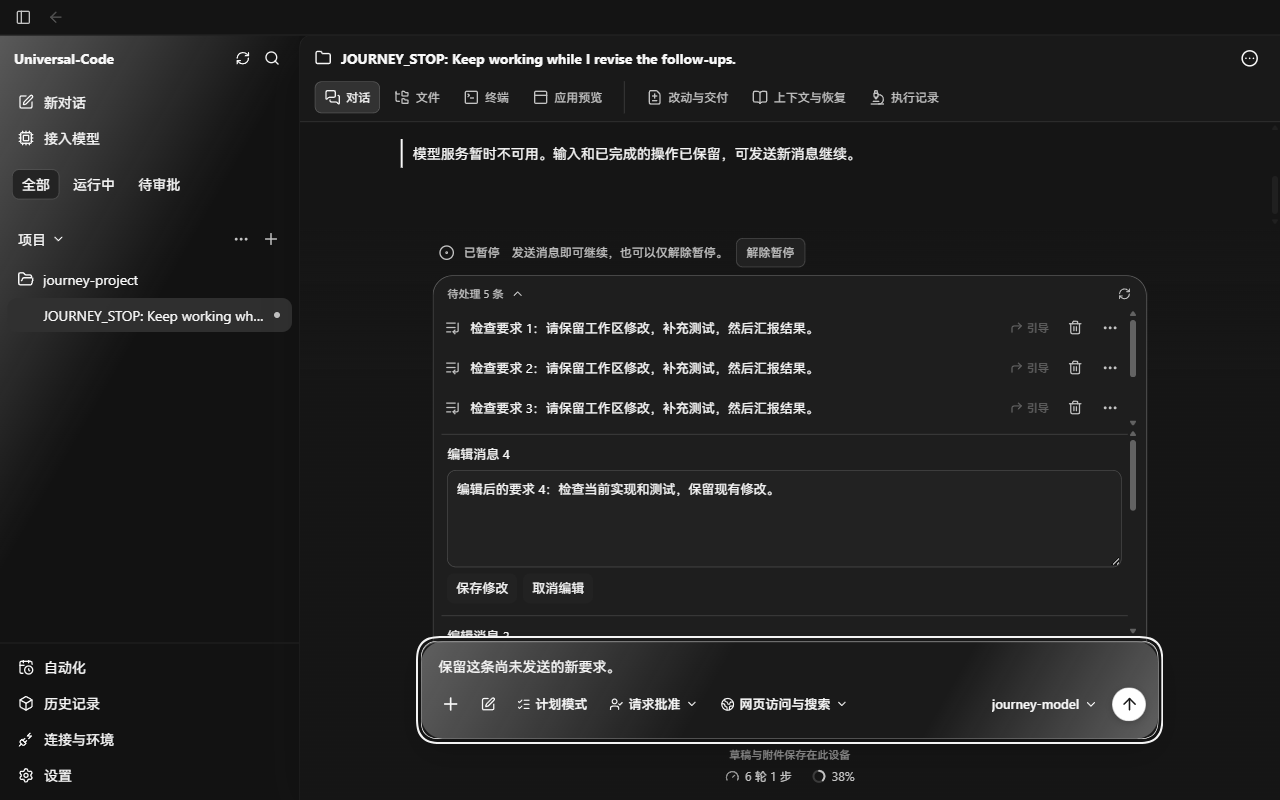
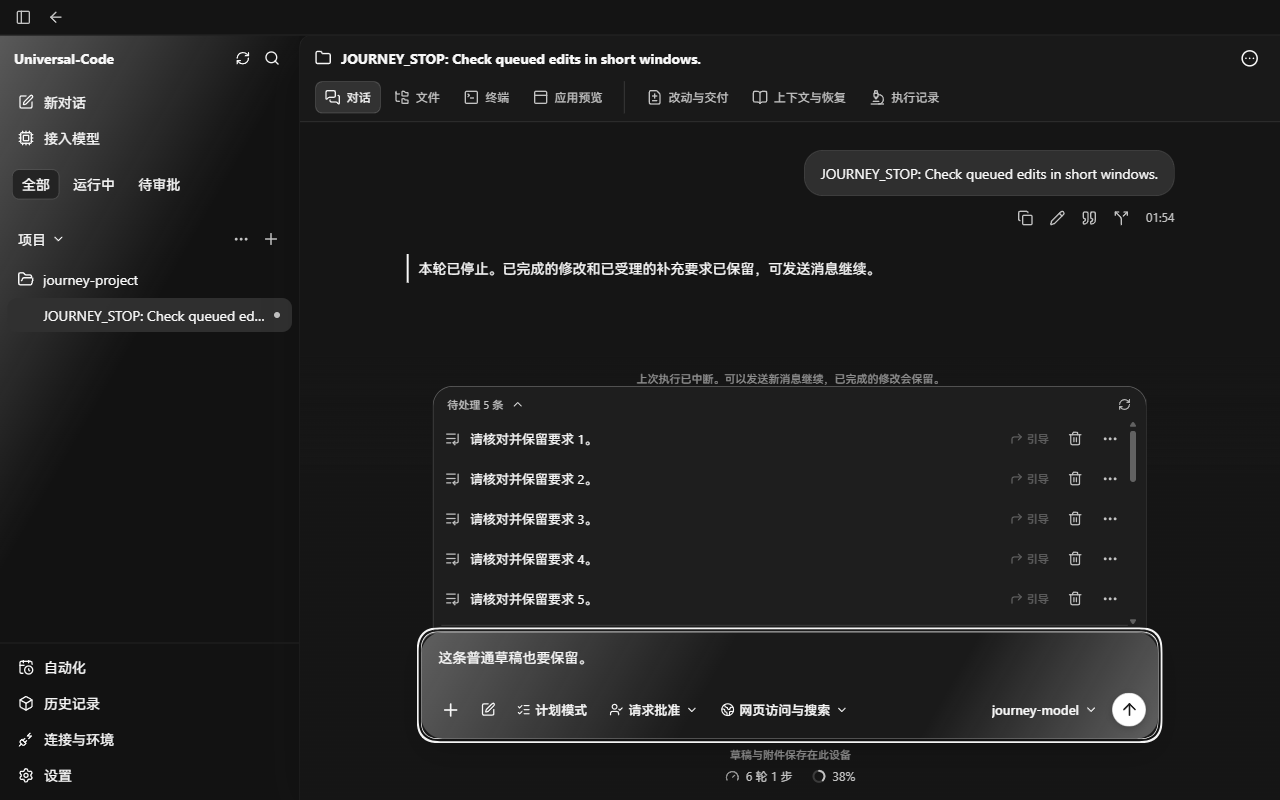
fix(chat): share queue scrolling in short windows

diff --git a/web/src/v2/components/queued-messages.tsx b/web/src/v2/components/queued-messages.tsx
@@ -50,6 +50,7 @@ function QueuePanel({ client, running, canPromote = false, ...binding }: QueueBi
   const setNotice = (text: string, successful = false) => setNoticeState({ text, successful });
   const [busy, setBusy] = useState<string[]>([]);
   const [collapsed, setCollapsed] = useState(false);
+  const [focusedEdit, setFocusedEdit] = useState<string | null>(null);
   const [details, setDetails] = useState<{ message: QueuedMessage; trigger: HTMLElement | null } | null>(null);
   const detailsID = useId();
   const listID = useId();
@@ -86,7 +87,7 @@ function QueuePanel({ client, running, canPromote = false, ...binding }: QueueBi
       const state = document.read(scope);
       if (!state.ref || !queueEditVisible(store, edit, state)) document.update(scope, empty(message.content), state.ref);
       reopenQueueEdit(store, edit);
-      refresh(); setNotice("");
+      refresh(); setFocusedEdit(key); setNotice("");
     } catch (error) { setNotice(explanation(error, t)); }
   };
   const finish = async (operation: QueueOperation) => {
@@ -210,6 +211,7 @@ function QueuePanel({ client, running, canPromote = false, ...binding }: QueueBi
       <button className="v2-queue-icon" type="button" aria-label={t("刷新列表", "Refresh list")} title={t("刷新列表", "Refresh list")}
         onClick={() => void query.refetch()} disabled={query.isFetching}><RefreshCw size={13} aria-hidden="true" /></button>
     </header>
+    <div className="v2-queue-content">
     {query.isError && <p role="alert">{t("暂时无法读取完整队列。已有消息仍可在对话记录中查看。", "The full queue is unavailable. Existing messages remain in conversation history.")}{explanation(query.error, t)}</p>}
     {recoveryError && <p role="alert">{recoveryError}</p>}
     {notice && <p role="status">{notice}</p>}
@@ -226,8 +228,8 @@ function QueuePanel({ client, running, canPromote = false, ...binding }: QueueBi
           version: "queue_operation.v1", kind: "cancel", operationKey: crypto.randomUUID(), messageID: message.id,
           expectedRevision: message.revision, oldSHA256: message.content_sha256, content: "" })} />)}</ol>
     {/* Recovery controls stay reachable even when the queue preview is collapsed. */}
-    <div className="v2-queue-recovery">
     {document && store && edits.map((edit) => <QueueEditor key={queueEditKey(edit)} edit={edit} document={document} store={store}
+      focus={focusedEdit === queueEditKey(edit)}
       client={client} current={edit.runID === binding.runID && edit.sessionID === binding.sessionID ? items.find((message) => message.id === edit.message.id) : undefined} refresh={refresh}
       previousRun={edit.runID !== binding.runID || edit.sessionID !== binding.sessionID}
       queueKnown={query.isSuccess} locked={!!recoveryError || !query.isSuccess || operations.some((operation) => operation.messageID === edit.message.id) || busy.includes(edit.message.id)}
@@ -245,8 +247,9 @@ function QueuePanel({ client, running, canPromote = false, ...binding }: QueueBi
   </section>;
 }
 
-function QueueEditor({ edit, current, client, document, store, locked, queueKnown, previousRun, refresh, submit, startEdit }: {
+function QueueEditor({ edit, current, client, document, store, locked, queueKnown, previousRun, refresh, submit, startEdit, focus }: {
   edit: QueueEdit; current?: QueuedMessage; client: APIClient; document: DraftDocument; store: V2RecoveryStore;
+  focus: boolean;
   locked: boolean; queueKnown: boolean; previousRun: boolean; refresh: () => void; submit: (operation: QueueOperation) => void; startEdit: (message: QueuedMessage) => void;
 }) {
   const { t } = useLocale();
@@ -269,7 +272,7 @@ function QueueEditor({ edit, current, client, document, store, locked, queueKnow
   };
   return <div className="v2-queue-editor">
     {previousRun && <p>{t("上轮编辑稿 · 原执行", "Previous edit · Original run ")}{edit.runID}</p>}
-    <label>{t(`编辑消息 ${edit.message.sequence}`, `Edit message ${edit.message.sequence}`)}<textarea aria-label={t(`编辑消息 ${edit.message.sequence}`, `Edit message ${edit.message.sequence}`)} value={state.snapshot.text} rows={4}
+    <label>{t(`编辑消息 ${edit.message.sequence}`, `Edit message ${edit.message.sequence}`)}<textarea aria-label={t(`编辑消息 ${edit.message.sequence}`, `Edit message ${edit.message.sequence}`)} value={state.snapshot.text} rows={4} autoFocus={focus}
       onChange={(event) => { document.update(scope, { text: event.target.value }, state.ref); refresh(); }} /></label>
     <V2DraftConflict state={state} client={client} workspaceID={edit.workspaceID} onResolve={(token, ref) => { document.resolve(scope, token, ref); refresh(); }} />
     {(!queueKnown || !current || current.prepared || stale) && <p role="status">{!queueKnown ? t("尚未确认最新队列状态。", "The latest queue state is unconfirmed.") : !current ? t("这条消息已离开待处理队列。", "This message left the pending queue.") : current.prepared ? t("这条消息正在处理。", "This message is being processed.") : t("这条消息已在其他窗口更新。", "This message was updated in another window.")}{t("本地编辑稿仍保留，可选中文字复制。", "Your local edit is kept. Select text to copy it.")}</p>}

diff --git a/web/src/v2/components/queued-messages.css b/web/src/v2/components/queued-messages.css
@@ -32,9 +32,11 @@
 .v2-queue-toggle svg { flex-shrink: 0; }
 .v2-queued-messages .v2-queue-icon { display: inline-flex; align-items: center; justify-content: center; width: 28px; height: 28px; flex: 0 0 28px; padding: 0; color: var(--v2-muted); }
 .v2-queued-messages .v2-queue-promote { display: inline-flex; align-items: center; justify-content: center; gap: 3px; height: 28px; flex: 0 0 auto; padding: 0 5px; color: var(--v2-muted); font-size: 11px; white-space: nowrap; }
-.v2-queued-messages > ol { list-style: none; padding: 0; margin: 0; max-height: min(120px, 24dvh); overflow: auto; overscroll-behavior: contain; scrollbar-width: thin; scrollbar-color: var(--v2-border-strong) transparent; }
-.v2-queued-messages > ol[hidden] { display: none; }
-.v2-queued-messages > ol > li { min-width: 0; padding: 0; }
+.v2-queue-content { max-height: min(120px, 24dvh); overflow-y: auto; overscroll-behavior-y: contain; scrollbar-width: thin; scrollbar-color: var(--v2-border-strong) transparent; }
+.v2-queue-content:has(.v2-queue-editor, .v2-queued-message-pending) { max-height: min(220px, 26dvh); }
+.v2-queue-content > ol { list-style: none; padding: 0; margin: 0; }
+.v2-queue-content > ol[hidden] { display: none; }
+.v2-queue-content > ol > li { min-width: 0; padding: 0; }
 .v2-queue-row { display: flex; align-items: center; gap: 7px; min-height: 40px; padding: 3px 4px; }
 .v2-queue-row-icon { flex-shrink: 0; color: var(--v2-muted); }
 .v2-queued-messages .v2-queue-preview { display: flex; align-items: center; gap: 7px; flex: 1; min-width: 0; min-height: 32px; padding: 3px; text-align: left; }
@@ -67,7 +69,6 @@
 .v2-queue-menu { position: fixed; z-index: 100; width: 196px; max-width: calc(100vw - 16px); max-height: calc(100dvh - 16px); overflow-y: auto; overscroll-behavior: contain; padding: 6px; border: 1px solid var(--v2-border-strong); border-radius: 13px; background: var(--prayu-surface-solid); color: var(--v2-ink); font: 13px/1.5 var(--prayu-font-ui, system-ui); box-shadow: 0 8px 28px var(--prayu-glass-shadow); }
 .v2-queue-menu button { display: flex; align-items: center; gap: 9px; width: 100%; min-height: 34px; padding: 6px 9px; text-align: left; }
 .v2-queue-menu svg { flex-shrink: 0; }
-.v2-queue-recovery { max-height: min(220px, 26dvh); overflow-y: auto; overscroll-behavior-y: contain; scrollbar-width: thin; scrollbar-color: var(--v2-border-strong) transparent; }
 .v2-queue-editor, .v2-queued-message-pending { margin-top: 6px; padding: 10px 6px 6px; border-top: 1px solid var(--v2-border); overflow-wrap: anywhere; }
 .v2-queue-editor textarea { display: block; box-sizing: border-box; width: 100%; min-height: 88px; padding: 9px; margin: 6px 0; resize: vertical; font: inherit; color: var(--v2-ink); background: var(--v2-control); border: 1px solid var(--v2-border); border-radius: 9px; }
 .v2-queued-message-actions { display: flex; align-items: center; flex-wrap: wrap; gap: 6px; }

diff --git a/web/e2e/workbench.spec.ts b/web/e2e/workbench.spec.ts
@@ -141,6 +141,7 @@ test("queued message edits retain the composer and conversation after reload", a
   for (let sequence = 2; sequence <= 4; sequence++) {
     await page.getByRole("button", { name: `消息 ${sequence} 的更多操作`, exact: true }).click();
     await page.getByRole("menuitem", { name: "编辑消息", exact: true }).click();
+    await expect(page.getByRole("textbox", { name: `编辑消息 ${sequence}`, exact: true })).toBeFocused();
     await page.getByRole("textbox", { name: `编辑消息 ${sequence}`, exact: true }).fill(`Unsent edit ${sequence}`);
   }
   await composer.fill("Keep this ordinary draft too");
@@ -148,21 +149,26 @@ test("queued message edits retain the composer and conversation after reload", a
   await reconnect(page);
   await expect(composer).toHaveValue("Keep this ordinary draft too");
   await composer.focus();
-  for (const width of [1280, 390]) {
-    await page.setViewportSize({ width, height: 844 });
+  for (const { width, height } of [
+    { width: 1280, height: 844 }, { width: 390, height: 844 },
+    { width: 1280, height: 600 }, { width: 480, height: 600 }, { width: 390, height: 500 },
+  ]) {
+    await page.setViewportSize({ width, height });
     await expect(composer).toHaveValue("Keep this ordinary draft too");
     await withinViewport(composer, page);
     const send = page.getByRole("button", { name: "发送消息", exact: true });
     await withinViewport(send, page);
-    expect((await send.boundingBox())!.y + (await send.boundingBox())!.height).toBeLessThanOrEqual(844);
-    expect((await page.locator(".v2-conversation-scroll").boundingBox())!.height).toBeGreaterThan(80);
+    expect((await send.boundingBox())!.y + (await send.boundingBox())!.height).toBeLessThanOrEqual(height);
+    const composerBounds = (await page.locator(".v2-shared-composer").boundingBox())!;
+    expect(composerBounds.y + composerBounds.height).toBeLessThanOrEqual(height);
+    expect((await page.locator(".v2-conversation-scroll").boundingBox())!.height).toBeGreaterThan(height >= 600 ? 80 : 32);
     for (let sequence = 2; sequence <= 4; sequence++) {
       const edit = page.getByRole("textbox", { name: `编辑消息 ${sequence}`, exact: true });
       await expect(edit).toHaveValue(`Unsent edit ${sequence}`);
       await edit.focus();
       await expect(edit).toBeInViewport();
     }
-    await info.attach(`queued-edits-${width}`, { body: await page.screenshot(), contentType: "image/png" });
+    await info.attach(`queued-edits-${width}x${height}`, { body: await page.screenshot(), contentType: "image/png" });
   }
   await page.getByRole("button", { name: /^待处理 5 条/u }).click();
   const edit = page.getByRole("textbox", { name: "编辑消息 2", exact: true });

diff --git a/web/src/v2/components/queued-messages.test.tsx b/web/src/v2/components/queued-messages.test.tsx
@@ -4,7 +4,7 @@ import { LocaleProvider } from "../../lib/locale";
 import { Blob as NodeBlob } from "node:buffer";
 import { webcrypto } from "node:crypto";
 import { QueryClient, QueryClientProvider } from "@tanstack/react-query";
-import { act, cleanup, render as renderComponent, screen, waitFor, within } from "@testing-library/react";
+import { act, cleanup, fireEvent, render as renderComponent, screen, waitFor, within } from "@testing-library/react";
 import userEvent from "@testing-library/user-event";
 import { APIRequestError, type APIClient } from "../../api/client";
 import type { QueueBinding, QueuePromotion, QueuePromotionRejection, QueuedMessage } from "../../api/queued-messages";
@@ -314,6 +314,20 @@ it("supports keyboard menu dismissal and folds only the preview without cancelli
   expect(screen.getAllByRole("button", { name: "撤回" })).toHaveLength(2);
   expect(f.cancelSessionSteering).not.toHaveBeenCalled();
   expect(f.postControl).not.toHaveBeenCalled();
+});
+
+it("keeps a newly positioned menu through an older scroll event and closes it when its anchor moves", async () => {
+  const f = fixture(); mount(f.client); const user = userEvent.setup();
+  const trigger = await screen.findByRole("button", { name: "消息 1 的更多操作" });
+  const rect = { top: 100, left: 50, right: 78, bottom: 128, width: 28, height: 28, x: 50, y: 100, toJSON: () => ({}) };
+  const bounds = vi.spyOn(trigger, "getBoundingClientRect").mockReturnValue(rect);
+  await user.click(trigger);
+  fireEvent.scroll(screen.getByRole("list"));
+  expect(screen.getByRole("menuitem", { name: "编辑消息" })).toHaveFocus();
+  bounds.mockReturnValue({ ...rect, top: 90, bottom: 118, y: 90 });
+  fireEvent.scroll(screen.getByRole("list"));
+  expect(screen.queryByRole("menu")).not.toBeInTheDocument();
+  expect(trigger).toHaveFocus();
 });
 
 it("removes editing from an open menu when the message becomes prepared", async () => {

diff --git a/web/src/v2/components/queued-message-row.tsx b/web/src/v2/components/queued-message-row.tsx
@@ -107,11 +107,13 @@ function QueueMessageMenu({ trigger, message, editDisabled, onClose, onEdit, onD
   const { t } = useLocale();
   const ref = useRef<HTMLDivElement>(null);
   const [position, setPosition] = useState({ top: 0, left: 0 });
+  const positionedAnchor = useRef<{ top: number; left: number } | null>(null);
   const closeRef = useRef(onClose);
   closeRef.current = onClose;
   useLayoutEffect(() => {
     const anchor = trigger.current?.getBoundingClientRect(), menu = ref.current?.getBoundingClientRect();
     if (!anchor || !menu) return;
+    positionedAnchor.current = { top: anchor.top, left: anchor.left };
     setPosition({ left: Math.max(8, Math.min(anchor.right - menu.width, window.innerWidth - menu.width - 8)),
       top: Math.max(8, anchor.bottom + menu.height + 8 > window.innerHeight ? anchor.top - menu.height - 4 : anchor.bottom + 4) });
   }, [trigger, message.prepared]);
@@ -129,6 +131,10 @@ function QueueMessageMenu({ trigger, message, editDisabled, onClose, onEdit, onD
       }
     };
     const move = (event: Event) => {
+      const anchor = trigger.current?.getBoundingClientRect();
+      // Opening after native focus/scroll can deliver an older scroll event.
+      if (event.type === "scroll" && anchor?.top === positionedAnchor.current?.top &&
+        anchor?.left === positionedAnchor.current?.left) return;
       if (!ref.current?.contains(event.target as Node)) { trigger.current?.focus({ preventScroll: true }); closeRef.current(); }
     };
     window.addEventListener("click", outside);

diff --git a/docs/acceptance/2026-11-07-queued-message-editing.md b/docs/acceptance/2026-11-07-queued-message-editing.md
@@ -7,12 +7,14 @@ height limit. At 1280 × 800, the transcript shrank to zero height and the ordin
 composer started at y=871.8, below the viewport. Reloading restored the editors
 and the same obstruction.
 
-The editors and unconfirmed queue operations now share a scroll area bounded by
-220px or 26% of the viewport height. The existing message list, editor controls,
-collapsed-list recovery access and stored draft identities are preserved.
+The message list, editors and unconfirmed operations now share one scroll area,
+bounded by 220px or 26% of the viewport height while edits are open. The composer
+stays outside it. Editor controls, collapsed-list recovery access and stored
+draft identities are preserved. Opening an editor focuses it and scrolls it
+into the shared area.
 
-In the reproduced paused-task scenario, the patched 1280 × 800 layout keeps
-105px of transcript visible and the composer ends at y=787. At 390 × 844 the
+In the reproduced stopped-task scenario, the patched 1280 × 800 layout keeps
+231px of transcript visible and the composer ends at y=787. At 390 × 844 the
 composer ends at y=834, with no horizontal page overflow. All three local edits
 remain available by scrolling, and survive reload alongside the ordinary draft.
 
@@ -43,15 +45,36 @@ directly through Go.
 | Light / narrow | [Before](../images/queued-message-editing/before-light-390.png) | [After](../images/queued-message-editing/after-light-390.png) |
 | Dark / narrow | [Before](../images/queued-message-editing/before-dark-390.png) | [After](../images/queued-message-editing/after-dark-390.png) |
 
+## Short-window follow-up
+
+The first fix capped the message list and recovery editors separately. That
+still exhausted the chat height in short windows. The desktop's declared
+minimum is 480 × 600 (`cmd/cyberagent-desktop/main.go`); the 390 × 500 case below
+also checks the browser layout at a shorter height.
+
+| Viewport | Transcript before → after | Composer bottom before → after | Screenshots |
+| --- | --- | --- | --- |
+| 1280 × 600 | 0 → 83px | 614 → 587px | [Before](../images/queued-message-editing/short-before-1280x600.png), [After](../images/queued-message-editing/short-after-1280x600.png) |
+| 480 × 600 | 3 → 123px | 590 → 590px | [Before](../images/queued-message-editing/short-before-480x600.png), [After](../images/queued-message-editing/short-after-480x600.png) |
+| 390 × 500 | 0 → 49px | 561 → 490px | [Before](../images/queued-message-editing/short-before-390x500.png), [After](../images/queued-message-editing/short-after-390x500.png) |
+
+The earlier two-region layout is shown in these short-window Before captures.
+The After captures use the same actual Thread and queued messages, with editors
+opened through the patched UI. All three editors remain reachable by keyboard
+focus and scrolling. The queue menu ignores a deferred scroll event when its
+anchor has already been positioned at that location, and still closes when the
+anchor moves.
+
 ## Verification
 
 - `npm run build`: passed strict TypeScript and the production bundle.
 - `npm test -- --maxWorkers=2 src/v2/components/queued-messages.test.tsx src/v2/queue-recovery.test.ts`:
-  39 tests passed.
+  40 tests passed.
 - `WORKBENCH_JOURNEY_SKIP_BUILD=1 npm run test:journeys -- --grep "queued message edits"`:
   one production Go/Chromium journey passed. It queues five messages, stops the
-  current turn, edits three messages, reloads, checks both viewport sizes, focuses
-  every retained editor, and saves one edit while the message list is collapsed.
+  current turn, edits three messages, reloads, checks five viewport sizes through
+  the desktop minimum and shorter browser height, focuses every retained editor,
+  and saves one edit while the message list is collapsed.
   The ordinary composer draft stays intact.
 - `git diff --check`: passed.
 
@@ -61,8 +84,9 @@ changing active-turn layout and the existing browser notice reappearing after
 reconnect. The final journey stops the turn and waits for and closes that notice
 before measuring the queue. It retains the original transcript-height assertion.
 
-OCR delegate selected both production files and excluded the browser spec by
-its default path rule. CSS was read in full; the TSX and browser spec were read
-partially, covering the changed QueuePanel/QueueEditor paths, new journey and
-surrounding helpers. No finding remains in this patch. Unrelated application
-files were read only as needed for the flow.
+OCR delegate selected the three production files and excluded tests by its
+default path rules. CSS was read in full; the TSX and browser spec were read
+around the changed QueuePanel/QueueEditor/QueueMessageMenu paths, journey and
+surrounding helpers. The new scroll-event regression was read in full. No finding
+remains in this patch. Unrelated application files were read only as needed for
+the flow.
